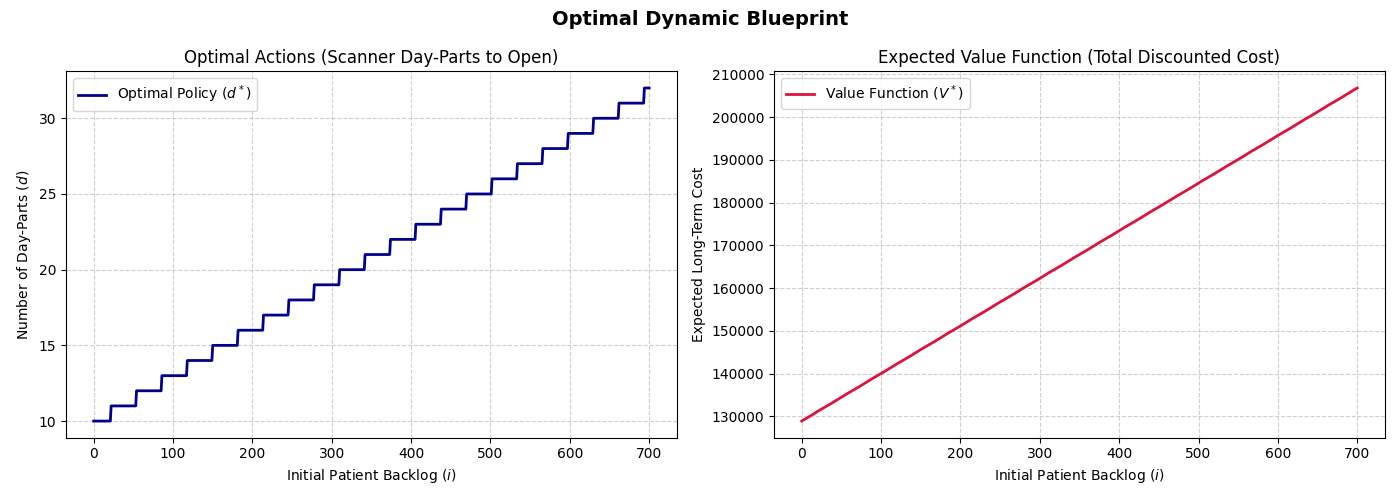
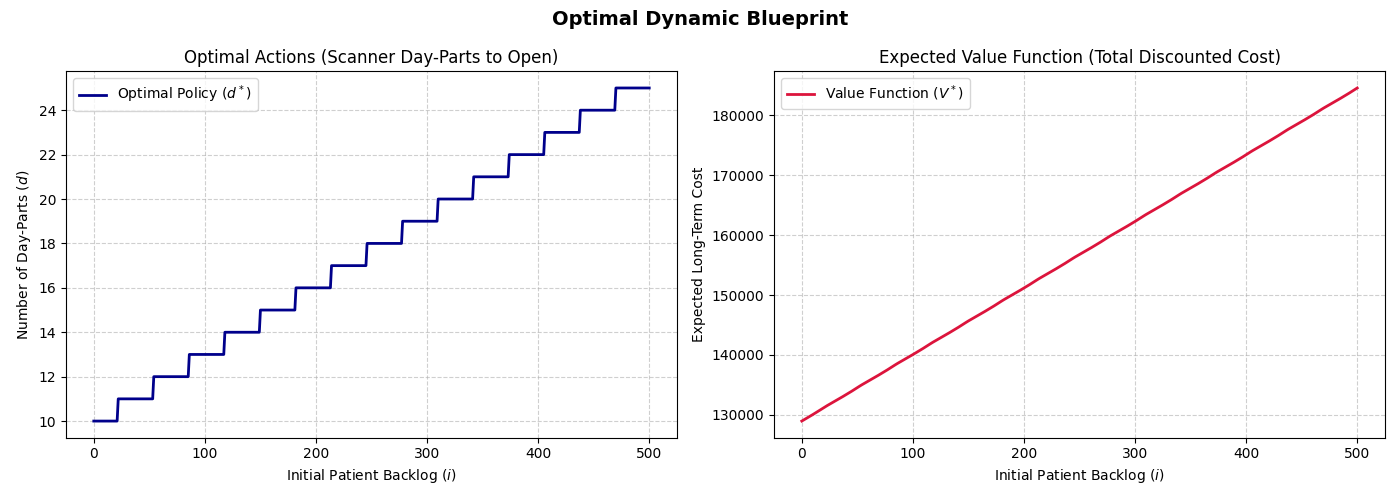
Offset iteration count

diff --git a/dynamic_blueprint.py b/dynamic_blueprint.py
@@ -66,7 +66,7 @@ def solve_blueprint_sdp_slow(num_scanners, wait_cost, operating_costs, discount)
 
 
 def solve_blueprint_sdp_fast(solver_type, num_scanners, wait_cost, operating_costs, discount) -> Tuple[dict, dict, int]:
-    max_state = 700
+    max_state = 500
     epsilon = 1e-2
 
     max_d = 10 * num_scanners
@@ -181,6 +181,6 @@ def print_solution(solver_type: str, optimal_values: dict, optimal_policy: dict,
 
 
 if __name__ == "__main__":
-    optimal_values, optimal_policy, iterations = solve_blueprint_sdp_fast(POLICY_ITERATION, num_scanners=20, wait_cost=15, operating_costs=200, discount=0.9)
+    optimal_values, optimal_policy, iterations = solve_blueprint_sdp_fast(POLICY_ITERATION, num_scanners=3, wait_cost=15, operating_costs=200, discount=0.9)
     plot_solution(POLICY_ITERATION, optimal_values, optimal_policy)
     # print_solution(POLICY_ITERATION, optimal_values, optimal_policy, iterations, 20)